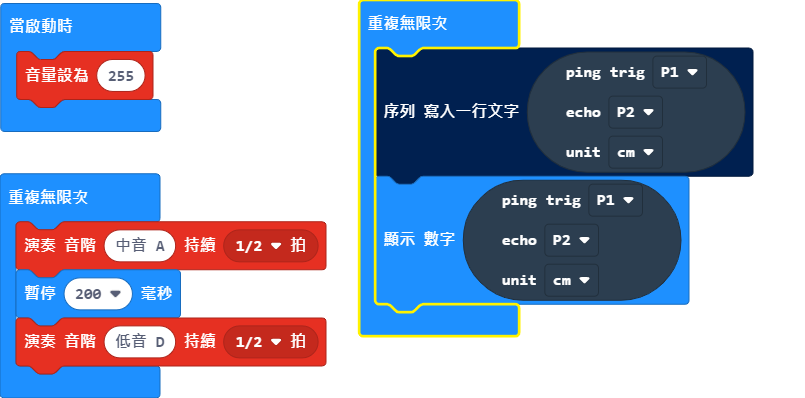
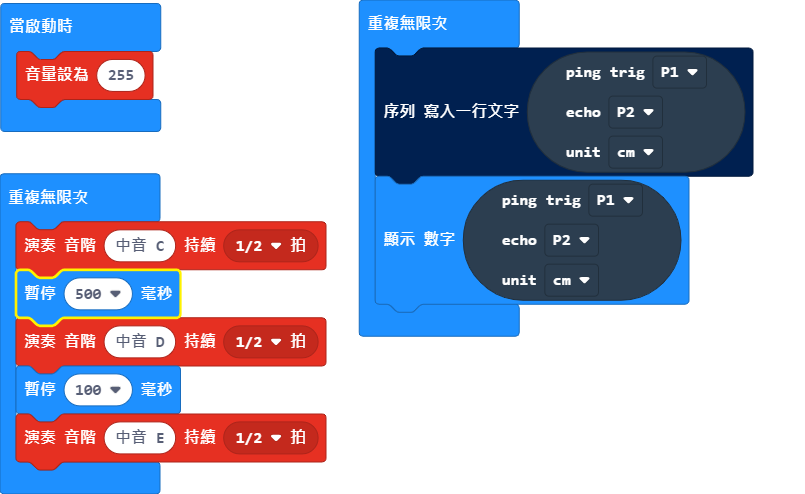
更新 main.blocks, main.ts

diff --git a/main.ts b/main.ts
@@ -12,7 +12,9 @@ basic.forever(function () {
     ))
 })
 basic.forever(function () {
-    music.playTone(440, music.beat(BeatFraction.Half))
-    basic.pause(200)
-    music.playTone(147, music.beat(BeatFraction.Half))
+    music.playTone(262, music.beat(BeatFraction.Half))
+    basic.pause(500)
+    music.playTone(294, music.beat(BeatFraction.Half))
+    basic.pause(100)
+    music.playTone(330, music.beat(BeatFraction.Half))
 })
